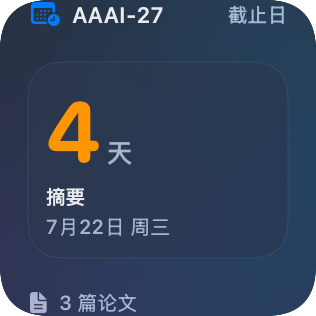
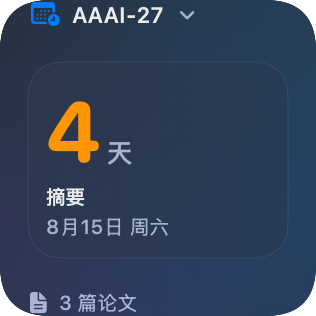
Add conference switcher and fix deadline label truncation (#7)
Add the interactive conference picker, preserve fixed deadline-row space, include selected-ICLR regression previews, and release AI Deadline 3.10 (17).

Changed region(s): [[0.1424, 0.6835, 0.5411, 0.769], [0.712, 0.0, 0.9114, 0.0854], [0.5696, 0.0285, 0.6266, 0.057]]

diff --git a/Deadline/DeadlineWidget.swift b/Deadline/DeadlineWidget.swift
@@ -1,6 +1,7 @@
 // SPDX-License-Identifier: GPL-3.0-or-later
 
 import Foundation
+import AppIntents
 import SwiftUI
 import WidgetKit
 
@@ -40,6 +41,71 @@ struct PaperStatus: Decodable, Identifiable {
 struct DeadlineEntry: TimelineEntry {
     let date: Date
     let snapshot: DeadlineSnapshot
+    let selectedConferenceName: String?
+    let isConferenceMenuOpen: Bool
+
+    init(
+        date: Date,
+        snapshot: DeadlineSnapshot,
+        selectedConferenceName: String? = nil,
+        isConferenceMenuOpen: Bool = false
+    ) {
+        self.date = date
+        self.snapshot = snapshot
+        self.selectedConferenceName = selectedConferenceName
+        self.isConferenceMenuOpen = isConferenceMenuOpen
+    }
+}
+
+private enum ConferenceSelection {
+    static let selectedNameKey = "AIDeadlineSelectedConferenceName"
+    static let menuOpenKey = "AIDeadlineConferenceMenuOpen"
+
+    static var selectedName: String? {
+        let value = UserDefaults.standard.string(forKey: selectedNameKey)
+        return value?.isEmpty == false ? value : nil
+    }
+
+    static var isMenuOpen: Bool {
+        UserDefaults.standard.bool(forKey: menuOpenKey)
+    }
+}
+
+struct ToggleConferenceMenuIntent: AppIntent {
+    static let title: LocalizedStringResource = "展开会议列表"
+    static let description = IntentDescription("展开或收起 AI Deadline 组件中的会议列表。")
+    static var openAppWhenRun: Bool { false }
+
+    func perform() async throws -> some IntentResult {
+        let defaults = UserDefaults.standard
+        defaults.set(!defaults.bool(forKey: ConferenceSelection.menuOpenKey), forKey: ConferenceSelection.menuOpenKey)
+        WidgetCenter.shared.reloadAllTimelines()
+        return .result()
+    }
+}
+
+struct SelectDeadlineConferenceIntent: AppIntent {
+    static let title: LocalizedStringResource = "切换会议"
+    static let description = IntentDescription("切换 AI Deadline 组件当前显示的会议。")
+    static var openAppWhenRun: Bool { false }
+
+    @Parameter(title: "会议") var conferenceName: String
+
+    init() {
+        conferenceName = ""
+    }
+
+    init(conferenceName: String) {
+        self.conferenceName = conferenceName
+    }
+
+    func perform() async throws -> some IntentResult {
+        let defaults = UserDefaults.standard
+        defaults.set(conferenceName, forKey: ConferenceSelection.selectedNameKey)
+        defaults.set(false, forKey: ConferenceSelection.menuOpenKey)
+        WidgetCenter.shared.reloadAllTimelines()
+        return .result()
+    }
 }
 
 struct DeadlineProvider: TimelineProvider {
@@ -48,12 +114,23 @@ struct DeadlineProvider: TimelineProvider {
     }
 
     func getSnapshot(in context: Context, completion: @escaping (DeadlineEntry) -> Void) {
-        completion(DeadlineEntry(date: .now, snapshot: loadSnapshot() ?? .preview))
+        completion(makeEntry(snapshot: loadSnapshot() ?? .preview))
     }
 
     func getTimeline(in context: Context, completion: @escaping (Timeline<DeadlineEntry>) -> Void) {
         let snapshot = loadSnapshot() ?? .preview
-        completion(Timeline(entries: [DeadlineEntry(date: .now, snapshot: snapshot)], policy: .after(.now.addingTimeInterval(60))))
+        completion(Timeline(entries: [makeEntry(snapshot: snapshot)], policy: .after(.now.addingTimeInterval(60))))
+    }
+
+    private func makeEntry(snapshot: DeadlineSnapshot) -> DeadlineEntry {
+        let availableNames = Set(snapshot.conferences.map(\.name))
+        let selectedName = ConferenceSelection.selectedName.flatMap { availableNames.contains($0) ? $0 : nil }
+        return DeadlineEntry(
+            date: .now,
+            snapshot: snapshot,
+            selectedConferenceName: selectedName,
+            isConferenceMenuOpen: ConferenceSelection.isMenuOpen
+        )
     }
 
     private func loadSnapshot() -> DeadlineSnapshot? {
@@ -84,6 +161,27 @@ extension DeadlineSnapshot {
                     PaperStatus(id: "project-beta", title: "Project Beta", status: "分析中", owner: nil, updatedAt: nil),
                     PaperStatus(id: "project-gamma", title: "Project Gamma", status: "待同步", owner: nil, updatedAt: nil)
                 ]
+            ),
+            ConferenceRecord(
+                name: "CVPR 2027",
+                deadlines: [],
+                papers: []
+            ),
+            ConferenceRecord(
+                name: "ICLR 2027",
+                deadlines: [
+                    DeadlineRecord(title: "摘要", dueAt: ISO8601DateFormatter().string(from: .now.addingTimeInterval(32 * 86_400))),
+                    DeadlineRecord(title: "全文", dueAt: ISO8601DateFormatter().string(from: .now.addingTimeInterval(37 * 86_400))),
+                    DeadlineRecord(title: "评审发布", dueAt: ISO8601DateFormatter().string(from: .now.addingTimeInterval(74 * 86_400))),
+                    DeadlineRecord(title: "公开讨论截止", dueAt: ISO8601DateFormatter().string(from: .now.addingTimeInterval(87 * 86_400))),
+                    DeadlineRecord(title: "最终结果", dueAt: ISO8601DateFormatter().string(from: .now.addingTimeInterval(115 * 86_400)))
+                ],
+                papers: []
+            ),
+            ConferenceRecord(
+                name: "NeurIPS 2027",
+                deadlines: [],
+                papers: []
             )
         ],
         error: nil
@@ -142,20 +240,33 @@ private func statusColor(_ status: String) -> Color {
 private struct DeadlineHeader: View {
     let name: String
     let hasError: Bool
+    let isMenuOpen: Bool
+    var compact: Bool = false
 
     var body: some View {
         HStack(spacing: 7) {
-            Image(systemName: "calendar.badge.clock")
-                .font(.system(size: 12, weight: .semibold))
-                .foregroundStyle(hasError ? .red : .blue)
-            Text(name)
-                .font(.subheadline.weight(.semibold))
+            Button(intent: ToggleConferenceMenuIntent()) {
+                HStack(spacing: 7) {
+                    Image(systemName: "calendar.badge.clock")
+                        .font(.system(size: 12, weight: .semibold))
+                        .foregroundStyle(hasError ? .red : .blue)
+                    Text(name)
+                        .font(.subheadline.weight(.semibold))
+                        .lineLimit(1)
+                    Image(systemName: isMenuOpen ? "chevron.up" : "chevron.down")
+                        .font(.system(size: 8, weight: .bold))
+                        .foregroundStyle(.secondary)
+                }
+                .contentShape(Rectangle())
+            }
+            .buttonStyle(.plain)
+            .accessibilityLabel(isMenuOpen ? "收起会议列表" : "切换会议，当前为 \(name)")
             Spacer()
             if hasError {
                 Image(systemName: "exclamationmark.triangle.fill")
                     .font(.caption)
                     .foregroundStyle(.red)
-            } else {
+            } else if !compact {
                 Text("截止日")
                     .font(.caption2.weight(.medium))
                     .foregroundStyle(.secondary)
@@ -312,7 +423,11 @@ struct DeadlineWidgetView: View {
     var previewFamily: WidgetFamily? = nil
 
     private var conference: ConferenceRecord {
-        entry.snapshot.conferences.first(where: { !$0.deadlines.isEmpty })
+        if let selectedName = entry.selectedConferenceName,
+           let selected = entry.snapshot.conferences.first(where: { $0.name == selectedName }) {
+            return selected
+        }
+        return entry.snapshot.conferences.first(where: { !$0.deadlines.isEmpty })
             ?? entry.snapshot.conferences.first
             ?? ConferenceRecord(name: "AI Deadline", deadlines: [], papers: [])
     }
@@ -320,29 +435,100 @@ struct DeadlineWidgetView: View {
     private var upcoming: [DatedDeadline] { conference.datedDeadlines(after: entry.date) }
 
     var body: some View {
-        Group {
-            switch previewFamily ?? family {
-            case .systemSmall: smallView
-            case .systemLarge: largeView
-            default: mediumView
+        ZStack(alignment: .topLeading) {
+            Group {
+                switch previewFamily ?? family {
+                case .systemSmall: smallView
+                case .systemLarge: largeView
+                default: mediumView
+                }
+            }
+            if entry.isConferenceMenuOpen {
+                conferenceMenu
+                    .transition(.opacity)
+                    .zIndex(2)
             }
         }
         .modifier(DeadlineWidgetContainer(enabled: previewFamily == nil))
         .modifier(DeadlineWidgetLink(enabled: previewFamily == nil))
     }
 
-    private var emptyState: some View {
-        ContentUnavailableView {
-            Label("暂无截止日", systemImage: "calendar")
-        } description: {
-            Text("同步状态后会显示在这里")
+    private var conferenceMenu: some View {
+        let isSmall = (previewFamily ?? family) == .systemSmall
+        return VStack(alignment: .leading, spacing: 2) {
+            ForEach(entry.snapshot.conferences) { candidate in
+                Button(intent: SelectDeadlineConferenceIntent(conferenceName: candidate.name)) {
+                    HStack(spacing: 7) {
+                        Image(systemName: "checkmark")
+                            .font(.system(size: 9, weight: .bold))
+                            .foregroundStyle(.blue)
+                            .opacity(candidate.name == conference.name ? 1 : 0)
+                            .frame(width: 11)
+                        Text(candidate.name)
+                            .font(isSmall ? .caption2.weight(.semibold) : .caption.weight(.semibold))
+                            .lineLimit(1)
+                            .minimumScaleFactor(0.82)
+                        Spacer(minLength: isSmall ? 3 : 6)
+                        if let next = candidate.datedDeadlines(after: entry.date).first {
+                            Text("\(dayCount(to: next.date, from: entry.date))天")
+                                .font(.caption2.monospacedDigit().weight(.medium))
+                                .foregroundStyle(.secondary)
+                        } else {
+                            Text("TBA")
+                                .font(.caption2.weight(.medium))
+                                .foregroundStyle(.secondary)
+                        }
+                    }
+                    .padding(.horizontal, 8)
+                    .frame(height: isSmall ? 23 : 25)
+                    .background(candidate.name == conference.name ? Color.blue.opacity(0.12) : Color.clear)
+                    .clipShape(RoundedRectangle(cornerRadius: 7, style: .continuous))
+                    .contentShape(Rectangle())
+                }
+                .buttonStyle(.plain)
+            }
         }
+        .padding(5)
+        .frame(width: isSmall ? 142 : 178)
+        .background(.regularMaterial, in: RoundedRectangle(cornerRadius: 11, style: .continuous))
+        .overlay {
+            RoundedRectangle(cornerRadius: 11, style: .continuous)
+                .stroke(.primary.opacity(0.12), lineWidth: 0.5)
+        }
+        .padding(.top, isSmall ? 36 : 39)
+        .padding(.leading, isSmall ? 9 : 13)
+        .accessibilityElement(children: .contain)
+        .accessibilityLabel("会议列表")
+    }
+
+    private var emptyState: some View {
+        VStack(alignment: .leading, spacing: 8) {
+            DeadlineHeader(
+                name: conference.name,
+                hasError: entry.snapshot.error != nil,
+                isMenuOpen: entry.isConferenceMenuOpen,
+                compact: (previewFamily ?? family) == .systemSmall
+            )
+            Spacer(minLength: 0)
+            ContentUnavailableView {
+                Label("暂无截止日", systemImage: "calendar")
+            } description: {
+                Text("官网待公布或当前阶段已结束")
+            }
+            Spacer(minLength: 0)
+        }
+        .padding((previewFamily ?? family) == .systemSmall ? 12 : 17)
     }
 
     @ViewBuilder private var smallView: some View {
         if let next = upcoming.first {
             VStack(alignment: .leading, spacing: 8) {
-                DeadlineHeader(name: conference.name, hasError: entry.snapshot.error != nil)
+                DeadlineHeader(
+                    name: conference.name,
+                    hasError: entry.snapshot.error != nil,
+                    isMenuOpen: entry.isConferenceMenuOpen,
+                    compact: true
+                )
                 Spacer(minLength: 0)
                 CountdownHero(deadline: next, now: entry.date, compact: true)
                     .frame(maxWidth: .infinity, alignment: .leading)
@@ -357,7 +543,7 @@ struct DeadlineWidgetView: View {
             }
             .padding(14)
         } else {
-            emptyState.padding(12)
+            emptyState
         }
     }
 
@@ -365,7 +551,12 @@ struct DeadlineWidgetView: View {
         if let next = upcoming.first {
             HStack(spacing: 16) {
                 VStack(alignment: .leading, spacing: 8) {
-                    DeadlineHeader(name: conference.name, hasError: entry.snapshot.error != nil)
+                    DeadlineHeader(
+                        name: conference.name,
+                        hasError: entry.snapshot.error != nil,
+                        isMenuOpen: entry.isConferenceMenuOpen,
+                        compact: true
+                    )
                     Spacer(minLength: 0)
                     CountdownHero(deadline: next, now: entry.date, compact: false)
                 }
@@ -387,14 +578,18 @@ struct DeadlineWidgetView: View {
             }
             .padding(16)
         } else {
-            emptyState.padding(12)
+            emptyState
         }
     }
 
     @ViewBuilder private var largeView: some View {
         if let next = upcoming.first {
             VStack(alignment: .leading, spacing: 14) {
-                DeadlineHeader(name: conference.name, hasError: entry.snapshot.error != nil)
+                DeadlineHeader(
+                    name: conference.name,
+                    hasError: entry.snapshot.error != nil,
+                    isMenuOpen: entry.isConferenceMenuOpen
+                )
                 HStack(alignment: .center, spacing: 14) {
                     CountdownHero(deadline: next, now: entry.date, compact: false)
                         .frame(width: 108, alignment: .leading)
@@ -424,7 +619,7 @@ struct DeadlineWidgetView: View {
             }
             .padding(17)
         } else {
-            emptyState.padding(12)
+            emptyState
         }
     }
 }

diff --git a/PreviewRenderer.swift b/PreviewRenderer.swift
@@ -77,9 +77,16 @@ struct PreviewRenderer {
 #else
         let snapshot = loadJSON(DeadlineSnapshot.self, path: snapshotPath) ?? .preview
         let entry = DeadlineEntry(date: .now, snapshot: snapshot)
+        let menuEntry = DeadlineEntry(date: .now, snapshot: snapshot, isConferenceMenuOpen: true)
+        let selectedConferenceEntry = DeadlineEntry(date: .now, snapshot: snapshot, selectedConferenceName: "ICLR 2027")
         try render(DeadlineWidgetView(entry: entry, previewFamily: .systemSmall), size: CGSize(width: 158, height: 158), name: "deadline-small", output: output)
         try render(DeadlineWidgetView(entry: entry, previewFamily: .systemMedium), size: CGSize(width: 338, height: 158), name: "deadline-medium", output: output)
         try render(DeadlineWidgetView(entry: entry, previewFamily: .systemLarge), size: CGSize(width: 338, height: 354), name: "deadline-large", output: output)
+        try render(DeadlineWidgetView(entry: menuEntry, previewFamily: .systemSmall), size: CGSize(width: 158, height: 158), name: "deadline-menu-small", output: output)
+        try render(DeadlineWidgetView(entry: menuEntry, previewFamily: .systemMedium), size: CGSize(width: 338, height: 158), name: "deadline-menu-medium", output: output)
+        try render(DeadlineWidgetView(entry: menuEntry, previewFamily: .systemLarge), size: CGSize(width: 338, height: 354), name: "deadline-menu-large", output: output)
+        try render(DeadlineWidgetView(entry: selectedConferenceEntry, previewFamily: .systemMedium), size: CGSize(width: 338, height: 158), name: "deadline-selected-medium", output: output)
+        try render(DeadlineWidgetView(entry: selectedConferenceEntry, previewFamily: .systemLarge), size: CGSize(width: 338, height: 354), name: "deadline-selected-large", output: output)
 #endif
     }
 
